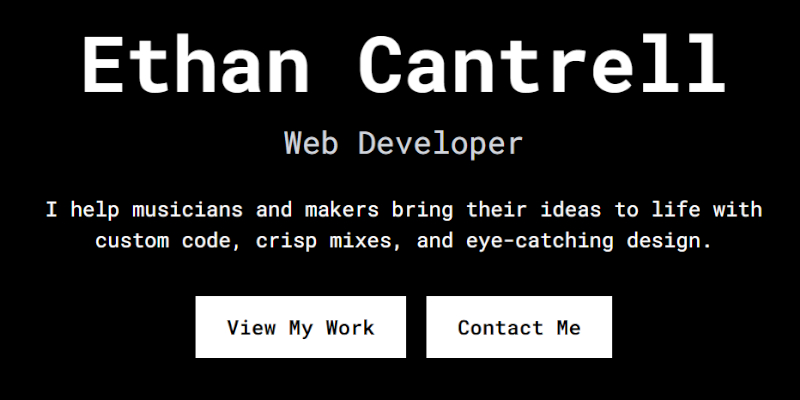
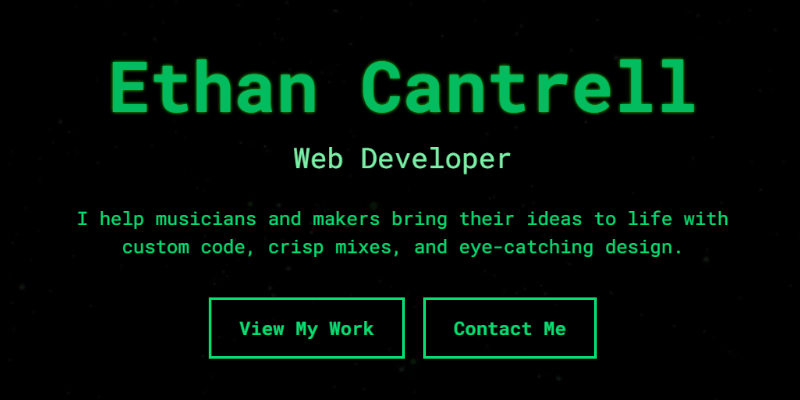
restyled the rest of the site for a green on black aesthetic

diff --git a/src/app/components/pricing.tsx b/src/app/components/pricing.tsx
@@ -9,37 +9,37 @@ export default function Pricing() {
   })
 
   return (
-    <section id="pricing" className="w-full bg-gray-400/25 py-16 px-4">
+    <section id="pricing" className="w-full py-16 px-4">
       <div ref={ref} className={inView ? 'slide-top max-w-5xl mx-auto' : 'opacity-0 max-w-5xl mx-auto'}>
         <h2 className="text-4xl font-bold mb-12 text-center">Pricing</h2>
 
-        <div className="bg-gray-700/50 rounded-xl p-6 mb-12 shadow-black shadow-lg">
+        <div className="bg-green-800/30 rounded-xl p-6 mb-12 shadow-black shadow-lg">
           <h3 className="text-2xl font-semibold mb-4">Single-Page Website – $150</h3>
-          <p className="text-gray-100 text-lg">
+          <p className="text-green-300 text-lg">
             A clean, mobile-friendly site that includes your location, contact info, hours, social links, branding, and key photos. Built for fast loading and easy updates. Perfect for small businesses, artists, and local projects that need a web presence without the bloat.
           </p>
         </div>
 
-        <div className="bg-gray-700/50 rounded-xl p-6 mb-12 shadow-black shadow-lg">
+        <div className="bg-green-800/30 rounded-xl p-6 mb-12 shadow-black shadow-lg">
           <h3 className="text-2xl font-semibold mb-4">Add-Ons</h3>
-          <ul className="text-gray-100 text-lg list-disc list-inside space-y-3">
+          <ul className="text-green-300 text-lg list-disc list-inside space-y-3">
             <li><strong>Event Calendar Integration</strong> – +$50  
-              <br /><span className="text-sm text-gray-300">Sync with Google Calendar to auto-display upcoming events.</span></li>
+              <br /><span className="text-sm text-green-300">Sync with Google Calendar to auto-display upcoming events.</span></li>
             <li><strong>Photo Gallery or Video Header</strong> – +$25–$50  
-              <br /><span className="text-sm text-gray-300">Highlight your space or vibe with rich visuals.</span></li>
+              <br /><span className="text-sm text-green-300">Highlight your space or vibe with rich visuals.</span></li>
             <li><strong>Simple Merch Store Setup</strong> – +$100  
-              <br /><span className="text-sm text-gray-300">Includes Ko-fi, Shopify, or other third-party integration.</span></li>
+              <br /><span className="text-sm text-green-300">Includes Ko-fi, Shopify, or other third-party integration.</span></li>
             <li><strong>Domain & Hosting Setup</strong> – Free  
-              <br /><span className="text-sm text-gray-300">I&apos;ll help you get your custom domain and hosting squared away.</span></li>
+              <br /><span className="text-sm text-green-300">I&apos;ll help you get your custom domain and hosting squared away.</span></li>
           </ul>
         </div>
 
-        <div className="bg-gray-700/50 rounded-xl p-6 shadow-black shadow-lg">
+        <div className="bg-green-800/30 rounded-xl p-6 shadow-black shadow-lg">
           <h3 className="text-2xl font-semibold mb-4 ">Ongoing Maintenance</h3>
-          <p className="text-gray-100 text-lg">
+          <p className="text-green-300 text-lg">
             Need help updating event flyers, hours, photos, or general upkeep?
           </p>
-          <ul className="mt-4 list-disc list-inside text-gray-100 text-lg space-y-2">
+          <ul className="mt-4 list-disc list-inside text-green-300 text-lg space-y-2">
             <li><strong>Monthly Updates & Support</strong> – $25–$50/month</li>
           </ul>
         </div>

diff --git a/src/app/components/projects.tsx b/src/app/components/projects.tsx
@@ -1,6 +1,6 @@
 'use client'
  import { useInView } from "react-intersection-observer";
- import Image from "next/image";
+import ProjectCard from "./project-card";
  
 export default function Projects(){
     const projects =[
@@ -25,29 +25,12 @@ export default function Projects(){
     threshold: 0.3, // Adjust how much of the section should be visible before triggering
   });
     return(
-        <section id="projects" className="py-12 px-4 bg-gray-400/25 text-white w-full">
+        <section id="projects" className="py-12 px-4w-full min-h-screen">
             <div ref={ref} className={inView ? 'slide-top max-w-6xl mx-auto' : 'max-w-6xl mx-auto opacity-0'}>
-                <h2 className="text-4xl font-bold mb-12 text-center">Projects</h2>
+                <h2 className="text-4xl font-bold mb-12 text-center neon-glow">Projects</h2>
                 <div className="grid grid-cols-1 md:grid-cols-2 gap-8">
                     {projects.map((project, id) => (
-                        <div key={id} className="bg-gray-400/25 hover:bg-gray-500/50 rounded-xl overflow-hidden shadow-black shadow-lg hover:shadow-2xl transition-shadow duration-360">
-                            <Image src={project.image} alt={project.title} width={600} height={400} className="object-cover" />
-                            <div className="p-6">
-                                <h3 className="text-2xl font-semibold mb-2">{project.title}</h3>
-                                <p className="text-gray-300 mb-4">{project.description}</p>
-                                <div className="flex gap-8">
-                                <a href={project.gitHub} target="_blank" rel="noopener" className="bg-gray-400/25 rounded-lg p-2 hover:underline" >
-                                    View The Code
-                                </a>
-                                {project.siteLink ? 
-                                                                <a href={project.siteLink} target="_blank" rel="noopener" className="bg-gray-400/25 rounded-lg p-2 hover:underline" >
-                                    Visit Site
-                                </a>
-                                : null
-                                }
-                                </div>
-                            </div>
-                        </div>
+                            <ProjectCard key={id} project={project} />                       
                     ))}
                 </div>
             </div>

diff --git a/src/app/components/project-card.tsx b/src/app/components/project-card.tsx
@@ -1,0 +1,34 @@
+import Image from "next/image"
+
+type Project = {
+    title: string,
+    description: string,
+    siteLink?: string,
+    gitHub?: string,
+    image:string
+
+}
+
+export default function ProjectCard({ project }: { project: Project}) {
+    return(
+        <div className="hover:bg-green-800/30 border-2 rounded-xl overflow-hidden shadow-black shadow-lg hover:shadow-2xl transition-shadow duration-360">
+            <Image src={project.image} alt={project.title} width={600} height={400} className="object-cover border-b-2 border-green-400" />
+            <div className="p-6">
+                <h3 className="text-2xl font-semibold mb-2">{project.title}</h3>
+                <p className="text-gray-300 mb-4">{project.description}</p>
+                <div className="flex gap-8">
+                <a href={project.gitHub} target="_blank" rel="noopener" className="bg-gray-400/25 rounded-lg p-2 hover:underline" >
+                    View The Code
+                </a>
+                {project.siteLink ? 
+                <a href={project.siteLink} target="_blank" rel="noopener" className="bg-gray-400/25 rounded-lg p-2 hover:underline" >
+                    Visit Site
+                </a>
+                : null
+                }
+                </div>
+            </div>
+        </div>
+
+    )
+}

diff --git a/src/app/components/aboutme.tsx b/src/app/components/aboutme.tsx
@@ -10,12 +10,12 @@ export default function AboutMe() {
   return (
     <section
       id="aboutMe"
-      className="min-h-screen w-full flex flex-col items-center justify-center text-center bg-black text-green-400 px-4 py-16 font-mono"
+      className="min-h-screen w-full flex flex-col items-center justify-center text-center text-green-400 border-y-4 px-4 py-16 font-mono"
     >
       <div ref={ref} className={inView ? 'slide-top' : 'opacity-0'}>
         <h2 className="text-4xl font-bold mb-8 tracking-widest neon-glow">ABOUT ME</h2>
         <p className="max-w-4xl text-lg md:text-xl leading-relaxed tracking-wide terminal-text">
-          I'm <span className="text-green-300 font-bold">Ethan Cantrell</span> — a self-taught web developer, musician,
+          I&apos;m <span className="text-green-300 font-bold">Ethan Cantrell</span> — a self-taught web developer, musician,
           and creative based in Tulsa, Oklahoma. I build clean, responsive websites using modern tools like
           <span className="text-green-300"> Next.js</span>, <span className="text-green-300">Tailwind CSS</span>, and
           <span className="text-green-300"> MongoDB</span>.<br /><br />

diff --git a/src/app/components/hero.tsx b/src/app/components/hero.tsx
@@ -1,6 +1,6 @@
 export default function Hero() {
     return(
-        <section id="home" className="relative h-screen w-full flex flex-col items-center justify-center text-center px-4 bg-black ">
+        <section id="home" className="relative h-screen w-full flex flex-col items-center justify-center text-center px-4 border-y-4">
             {/* Video Background */}
             <video
                 autoPlay
@@ -12,7 +12,7 @@ export default function Hero() {
                 <source src="/videos/hero-bg.mp4" type="video/mp4" />
             </video>
             <div className="relative">
-                <h1 className="text-5xl md:text-6xl font-bold mb-4">Ethan Cantrell</h1>
+                <h1 className="text-5xl md:text-6xl font-bold mb-4 neon-glow">Ethan Cantrell</h1>
                 <p className="text-xl md:text-2xl text-green-300 mb-6">Web Developer</p>
                 <p className="max-w-xl mb-8">I help musicians and makers bring their ideas to life with custom code, crisp mixes, and eye-catching design.</p>
                 <div className="flex gap-4 justify-center">

diff --git a/src/app/globals.css b/src/app/globals.css
@@ -58,16 +58,14 @@ body {
   }
 }
 
-/* Optional: Hacker-style glow & scanline effect */
 @keyframes flicker {
   0%, 100% { opacity: 1; }
-  45% { opacity: 0.7; }
-  55% { opacity: 0.9; }
+  50% { opacity: 0.8; }
 }
 
 .neon-glow {
-  text-shadow: 0 0 3px #33ff00, 0 0 5px #33ff00;
-  animation: flicker 3s infinite;
+  text-shadow: 0 0 3px #33ff00;
+  animation: flicker 2s infinite;
 }
 
 @keyframes hero-button-glow {
@@ -76,13 +74,13 @@ body {
     text-shadow: none;
   } 
   100%{
-    background: hsl(150, 100%, 20%); 
+    background: rgba(22, 101, 52, 0.3); 
     text-shadow: 0 0 3px #000, 0 0 5px #000;
   }
 }
 
 .hero-button:hover {
-  animation: hero-button-glow 1s ease-in-out 1;
+  animation: hero-button-glow 0.5s ease-in-out 1;
   animation-fill-mode: both;
   animation-play-state: running;
 }

diff --git a/src/app/components/contact.tsx b/src/app/components/contact.tsx
@@ -8,7 +8,7 @@ export default function Contact(){
   });
 
     return(
-        <section id="contact" className="h-screen w-full flex flex-col items-center text-center justify-center py-12 px-4 bg-black">
+        <section id="contact" className="h-screen w-full flex flex-col items-center text-center justify-center py-12 px-4 border-y-4">
             <div ref={ref} className={inView ? 'slide-top max-w-6xl mx-auto' : 'max-w-6xl mx-auto opacity-0'}>
                 <h2 className="text-4xl  font-bold mb-12">Contact Me</h2>
                 <p className="max-w-2xl text-xl md:text-2xl mb-12">If you would like to get in touch with me regarding your programming and development needs, click the button below to shoot me an email!</p>

diff --git a/src/app/page.tsx b/src/app/page.tsx
@@ -7,7 +7,7 @@ import Pricing from "./components/pricing";
 
 export default function Home() {
   return (
-    <div className="grid justify-items-center font-mono text-green-400">
+    <div className="grid justify-items-center font-mono bg-black text-green-400">
         <Hero />
         <Projects />
         <AboutMe />
